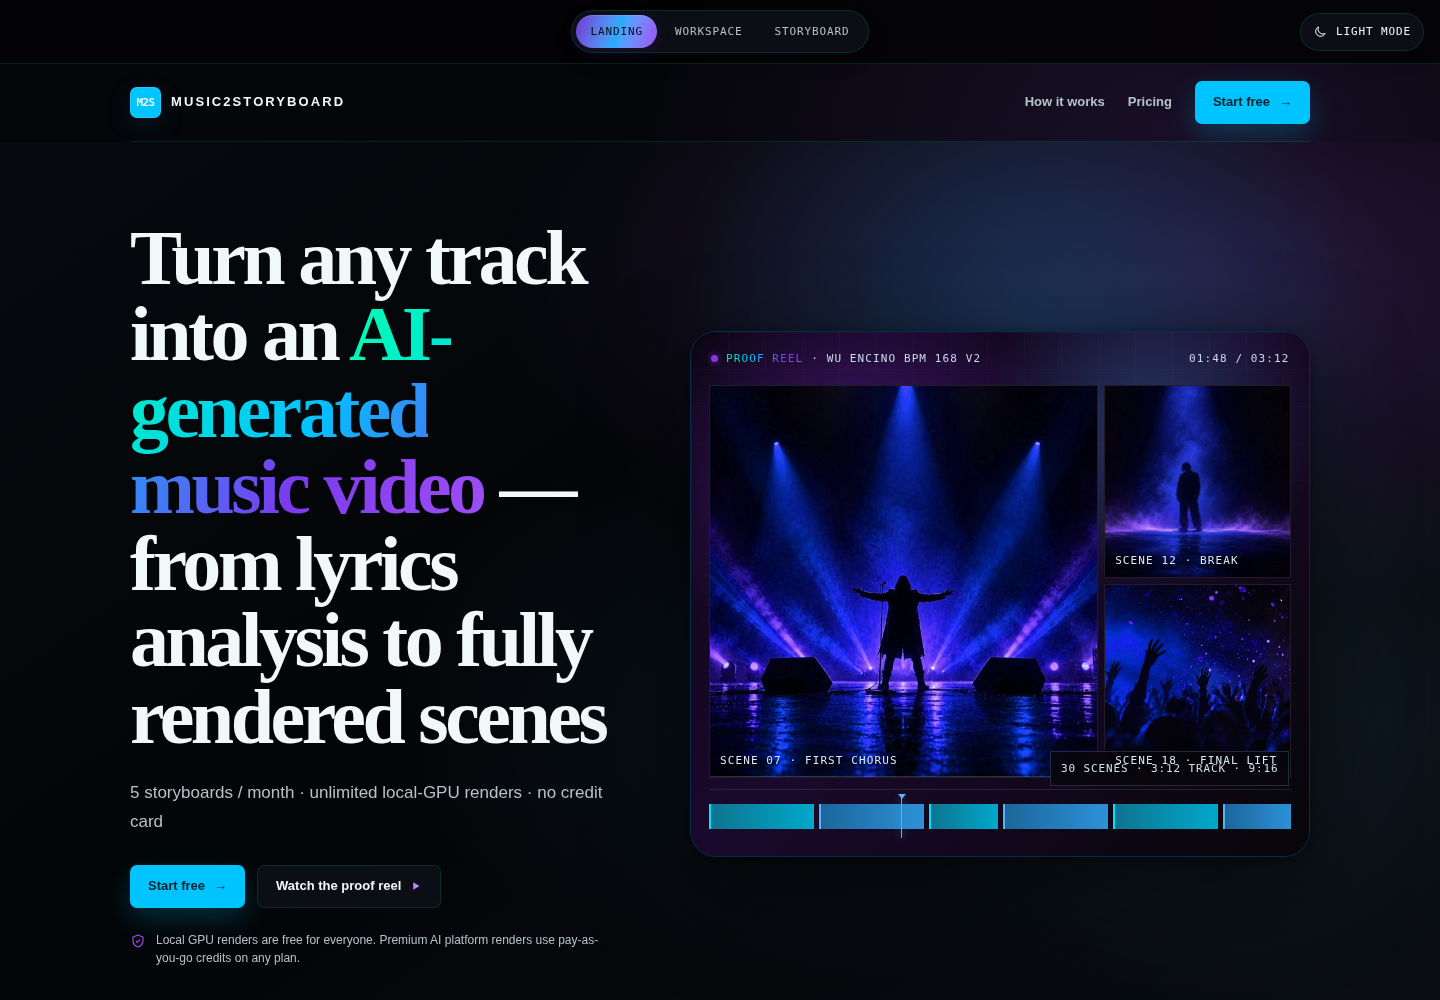
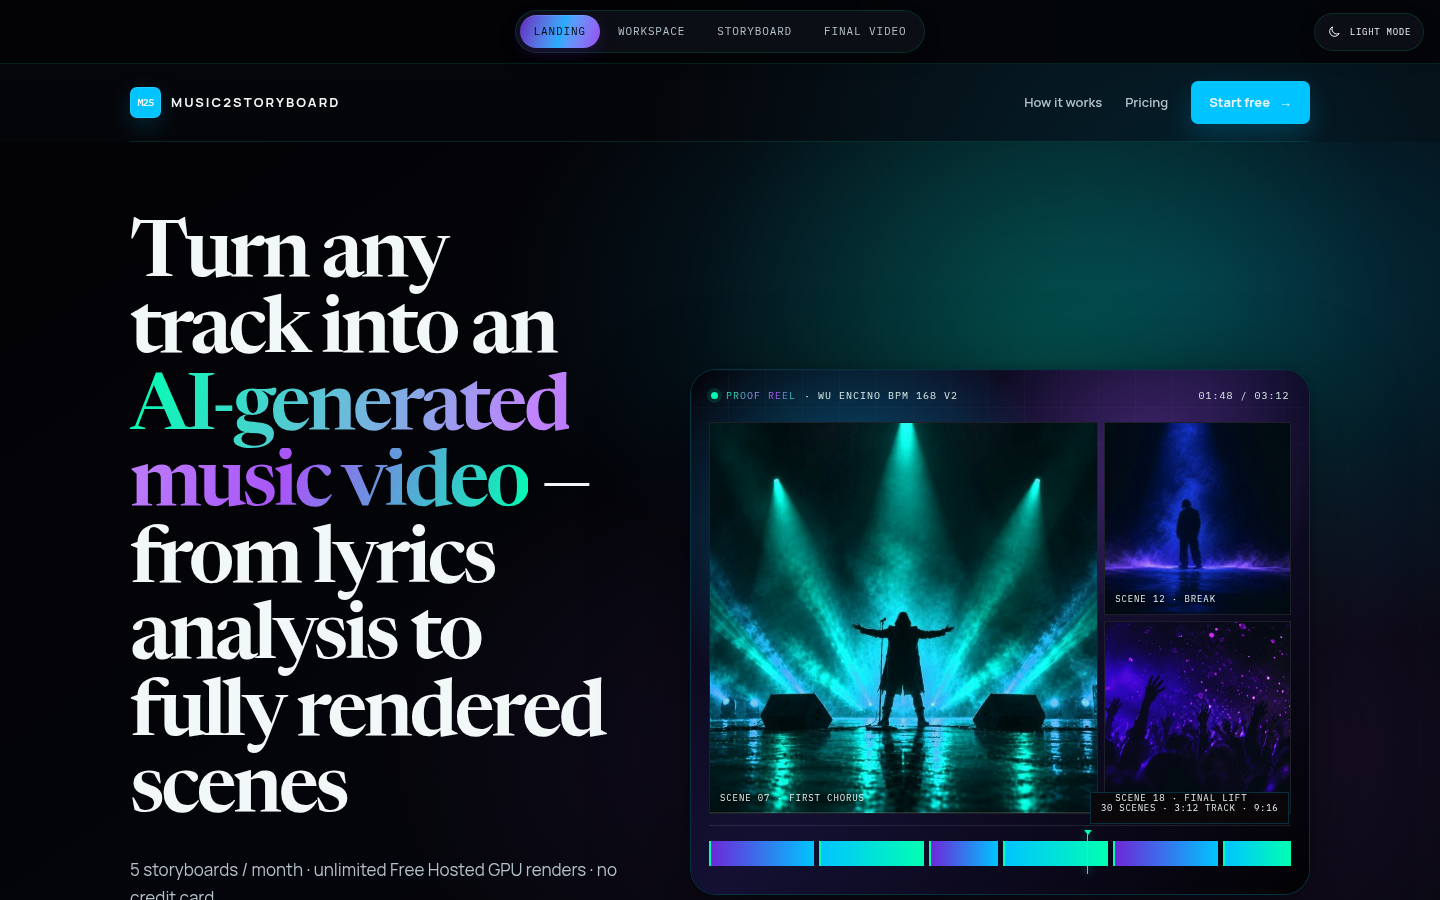
Refresh README screenshots from the v13 build (dark + light heroes); tidy README
Screenshots re-captured from the live ?v=13 build (dark hero + new light hero). README: working line updated to reskin-v12, Final Video screen listed, og-image copies noted.

diff --git a/README.md b/README.md
@@ -4,14 +4,17 @@
 
 **Live preview:** https://dgc-lab.github.io/music2storyboard-reskin-preview/?v=13
 
-**Branch policy:** work happens on the latest `reskin-vN` branch; `main` is the published mirror GitHub Pages serves. Working line: reskin-v8 (merged to main).
+**Branch policy:** work happens on the latest `reskin-vN` branch; `main` is the published mirror GitHub Pages serves. Working line: reskin-v12 (GitHub default is main).
 
-![Reskin preview — current build, dark hero](assets/screenshot.png?v=202610131550)
+![Reskin preview — current build, dark hero](assets/screenshot.png?v=202610141536)
+
+![Reskin preview — current build, light hero](assets/screenshot-light.png?v=202610141536)
 
 Static design preview of the cinematic reskin concept for music2storyboardgen.com,
 prepared for Derrick's review. This is a mockup, not the production site.
 
 - `index.html` — lightweight share page (link-preview meta tags, forwards to the reskin)
-- `reskin.html` — the full reskin mockup (Landing / Workspace / Storyboard screens)
-- `assets/og-image.jpg` — link preview card image (1200×630)
+- `reskin.html` — the full reskin mockup (Landing / Workspace / Storyboard / Final Video screens)
+- `og-image.jpg` / `assets/og-image.jpg` — link preview card image (1200×630)
 - `assets/screenshot.png` — current build screenshot (dark hero)
+- `assets/screenshot-light.png` — current build screenshot (light hero)
